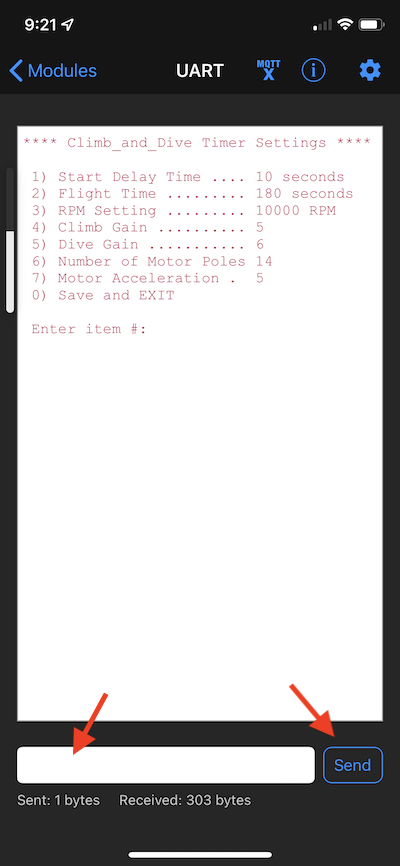
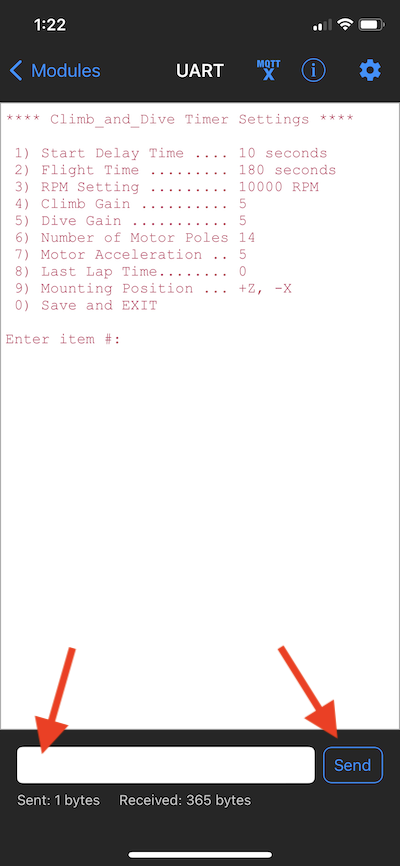
Update to v1.1

Changed region(s): [[0.0, 0.0, 1.0, 0.873], [0.48, 0.9042, 0.54, 0.9353]]

diff --git a/docs/Programming/Timer Mounting Position.md b/docs/Programming/Timer Mounting Position.md
@@ -1,0 +1,52 @@
+---
+title: Timer Mounting Position
+layout: default
+parent: Operation
+nav_order: 3
+---
+
+## **Climb_and_Dive** ##
+{: .text-blue-100}
+{: .text-right}
+
+## Programming the Timer Mounting Position ##
+
+### Description ###
+
+The following instructions apply if you would like to install the timer on your airplane in an orientation other than the **default** mounting position described in the [assembly instructions](../Assembly#installation).  If you are using the default mounting position, the timer is already programmed with the default settings and is ready to use.
+
+The programming procedure for this feature is slightly different than the other items in the Bluetooth programming menu so therefore warrant more detailed instructions.  This procedure only needs to be done once after mounting the timer in the airplane, or if you change the timer orientation for any reason.
+
+**Overview**<br>
+First, a brief explanation of why this is necessary.  The accelerometer used by the timer actually has (3) separate accelerometers inside.  Each measurement axis is orientated 90 degrees to each other.  In addition, each measurement axis has a positive and negative direction.
+
+![](assets/images/Accelerometer Axes.png)
+
+It is imperative that the timer uses the correct measurement axis and direction for the active output calculations.  If the timer is installed in a different orientation with respect to the wings and fuselage of the airplane, the timer will need to be reprogrammed to tell it which measurement axes to use.
+
+The timer can be installed in any position.  Although, it still must be installed so that the sides and edges of the timer are aligned with the major axes of the airplane.  The timer *cannot* be mounted askew, tilted or at an angle to the wing and fuselage axes.
+
+**Programming**<br>
+Programming the timer to tell it which accelerometer axes to use is a two step process.  
+
+{: .highlight }
+Safety first: You are about to connect the battery to power-up the airplane.  Although you will only enter the Bluetooth programming mode, for maximum safety remove the propeller or get someone to securely hold the airplane at all times.
+
+With the timer installed in the airplane, power it up and enter the Bluetooth programming mode.  From the menu selections choose the Mounting Position option.
+
+![](assets/images/Bluefruit 7.png)
+
+**Step 1**<br>
+Follow the onscreen prompt and hold the airplane with the outboard wing pointing down (leadouts pointing up to the sky).  When you are ready, enter the letter "W" to tell the timer this is the accelerometer axis you want to use for the wing axis.  There is also an option to enter "X" if you want to exit the procedure and return to the main menu without making and changes.
+
+![](assets/images/Bluefruit 8.png)
+
+**Step 2**<br>
+Next, the prompt will ask you to rotate the airplane so that the fuselage is vertical with the nose pointed down and the rudder pointing up to the sky.  When you are ready, enter the letter "F" to tell the timer this is the accelerometer axis you want to use for the fuselage axis.  Again, there is also an option to enter "X" if you want to exit the procedure and return to the main menu without making any changes.
+
+![](assets/images/Bluefruit 9.png)
+
+**Results**<br>
+The menu will reappear showing the new accelerometer axes assigned to the airplanes wing and fuselage axes.  The **default orientation** of the timer uses the +Z axis assigned to the wing axis and the -X axis assigned to the fuselage axis.  All other mounting orientations will use a different combination of axes and signs.
+
+Be sure to **save** the new programming settings when you disconnect and exit the Bluetooth programming mode.

diff --git a/docs/Operation.md b/docs/Operation.md
@@ -30,11 +30,11 @@ When ready, touch and hold the pin (a long touch of a minimum of 3 seconds), the
 {: .highlight }
 Note: Any touch of the pin during the Start Delay mode will stop the countdown and return to the Standby mode (green).
 
-After the Start Delay the Flight mode will start (flashing red) and the motor RPM will slowly increase to the desired flight RPM at the programmed rate.  This will assist with a smooth take-off.
+After the Start Delay the Flight mode will start (flashing red) and the motor RPM will slowly increase to the desired flight RPM at the programmed rate.  This will assist with a smooth take-off.  In oder to allow for a smooth climb to cruising speed there is a 5 second delay before the active function of the timer becomes fully operational.
 
 {: .highlight }
 If you need to abort the flight: After the motor starts, **any touch of the pin will stop the motor** and jump to the Flight Complete mode (LED off).
 
-10 seconds before the Flight mode is complete the LED will quickly flash white to indicate the end of the flight.  The motor RPM will then increase for 3 seconds before stopping to aid in a smooth approach and landing.  Once the motor stops the program enters the Flight Complete mode (LED off).  The power must be reset in order to exit the Flight Complete mode.
+10 seconds before the Flight mode is complete the LED will quickly flash white to indicate the end of the flight.  The motor RPM will then increase for 3 seconds before stopping to aid in a smooth approach and landing.  There is also and option to add up to 10 seconds of normal flight RPM *after* the 3 second burst of high RPM to allow extra time to prepare for the landing.  Once the motor stops the program enters the Flight Complete mode (LED off).  The power must be reset in order to exit the Flight Complete mode.
 
 Disconnect the battery, replace it with a fully charged one and repeat the process for the next flight.

diff --git a/docs/Programming/Bluetooth Programming.md b/docs/Programming/Bluetooth Programming.md
@@ -36,17 +36,25 @@ The motor acceleration is an arbitrary multiplier with a value from 1 through 10
 **Number of Motor Poles**<br>
 Enter the number of magnetic poles used in your motor.  The timer needs this information in order to accurately calculate the RPM.  The number of magnetic poles  can be found in you motor documentation or by counting the number of magnet segments glued around the inside of the rotating part of the motor.
 
+**Last Lap Time**<br>
+Enter the amount of time from 0 to 10 seconds that you would like the motor to run at normal speed *after* the short burst of high RPM at the end of the flight.  If you prefer to use the short burst of high RPM to set-up for a better landing glide, set this time to 0.  If you prefer the use the short burst of high RPM as a warning signal to indicate the end of the flight, enter a length of time that allows you prepare for landing.
+
+**Mounting Position**<br>
+This programming option is only required if you want to install the timer in an orientation other than the default position shown in the assembly instructions.  For further information and details of the programming procedure, please refer to the page titled [Timer Mounting Position](Timer Mounting Position).
+
 The table below summarizes the programmable settings available and their default values:
 
 | Programmable Setting | Allowable Range | Default Setting |
 | --- | :---: | :---: |
 | Start Delay Time | 0 to 60 | 10 Seconds |
 | Flight Time | 1 to 360 | 180 Seconds |
-| Motor RPM | 5000 to 15000 | 10000 |
+| Motor RPM | 4000 to 15000 | 10000 |
 | Climb Gain | 0 to 10 | 5 |
 | Dive Gain | 0 to 10 | 5 |
 | Motor Acceleration | 1 to 10 | 5 |
 | Number of Motor Poles | 2 to 24 | 14 |
+| Last Lap Time | 0 to 10 | 0 |
+| Mounting Position| - | +Z, -X |
 
 <br>
 

diff --git a/docs/Assembly.md b/docs/Assembly.md
@@ -78,11 +78,17 @@ Connect the backpack motor pins to any two of the three motor wires.  It doesn't
 
 ![](assets/images/Bullet Connectors.jpeg)
 
+{: .highlight }
+Note: The main reason a JST connector is suggested is only because it's a very common 2-pin connector available from just about any hobby shop.  It may not be the ideal connector if connected and disconnected frequently.  A more robust connector would be a 2-pin "Dupont" connector.  Unfortunately, these are a little harder to find but are available from online retailers.
+
 ## Installation ##
 
 The flat bottom of the timer **must** be installed on a vertical part of the aircraft with the ESC/Motor connection pins pointing forward and the component side of the timer facing the pilot.  Although not super-critical, the long side of the timer should be installed so that it is horizontal when the aircraft is flying straight and level.  Calibration of the accelerometer is not required.
 
-A couple of pieces of adhesive backed hook and loop fastener (aka Velcro) makes quick work of mounting the timer in position.
+{: .highlight }
+The description above is the **default** mounting orientation.  If you would like to install the timer in your airplane in a different orientation please refer to the page titled [Timer Mounting Position](Programming/Timer Mounting Position).
+
+A couple of pieces of adhesive backed hook and loop fastener (aka Velcro) makes quick work of holding the timer in position.
 
 Please keep in mind that the accelerometer is a very sensitive device and excessive vibration can make it difficult to get accurate readings.  If possible locate the timer away from any source of vibration.  It's a good idea to always balance new propellers before use.
 

diff --git a/docs/FAQ's.md b/docs/FAQ's.md
@@ -16,6 +16,8 @@ nav_order: 7
 
 **Why don't I get the  one second throttle 'blip' when I start the timer?**  If your ESC has a procedure for throttle calibration, try that, it may help.  See [ESC Information](Power System Information#ESC Information).
 
+**The motor takes to long to get to cruising speed after take-off**  Do not hold the running airplane for an extended period before releasing for take-off.  There is a 5 second delay after the motor reaches the programmed flight RPM until the active function of the timer becomes fully operational.  This is to prevent the active function from impeding the airplane climb-out and acceleration to cruising speed.
+
 **Is a Bluetooth wireless connection allowed in competition?**  The Bluetooth radio is turned on *only* while the timer is in the programming mode.  Therefore the Bluetooth connection cannot be construed as to provide any control of the aircraft during flight.  Bluetooth is 2.4GHz spread spectrum technology.  The timer uses low energy Bluetooth transmitted through a very small onboard antenna which limits it's usefull range to about 30 feet, or 10 meters, maximum.
 
 **Is Bluefruit Connect the only app that will work with the timer?**  No, there are plenty of other free Bluetooth apps that support wireless UART communication.  Bluefruit Connect was suggested for its simplicity and ease of use.

diff --git a/index.md b/index.md
@@ -36,13 +36,15 @@ Programming the microcontroller is as easy as dragging and dropping a few files 
 
 - Programmable soft start.  The RPM increases over a programmable time period for smoother take-offs.
 
-- A 3 second boost in RPM at the conclusion of a flight to improve the landing glide.
+- A 3 second boost in RPM at the conclusion of a flight to improve the landing glide or as a warning to indicate the impending end of the flight.
 
 - An onboard accelerometer provides a programmable active boost in power during a climb as well as a decrease in power in a dive.  Accelerometer calibration is not required.
 
 - Constant RPM throughout the flight is maintained by sensing the motor voltage using a PID control feedback loop.  No need for a tachometer.  The RPM number you program is the RPM you get at the propeller.
 
 - Works with lower cost ESC’s.  The governing function takes place in the timer so expensive governing ESC’s are not required.
+
+- Following a simple programming procedure the timer can be mounted in any orientation in the airplane.
 
 - Power to the motor is cut off quickly and automatically if the propeller inadvertently strikes the ground.  No more burned out motors or ESC’s from a crash or nose-over on takeoff.
 

diff --git a/docs/Software.md b/docs/Software.md
@@ -14,8 +14,11 @@ If you purchased a **Climb_and_Dive kit** complete with both boards, then the Xi
 
 If you sourced your Seeed Studio Xiao nRF52840 from another provider you will have to install CircuitPython first and then the program code and libraries.  Dont' worry, it's easy.
 
+{: .highlight}
+Be sure to check here from time to time to make sure you are using the most up to date version of the program code.  **Latest Version: v1.1**
+
 <span class="fs-6">
-[Click Here to download the latest program code .zip file](https://github.com/CircuitFlyer/Climb_and_Dive/archive/v1.0.0.zip){: .btn .btn-blue }
+[Click Here to download the latest program code .zip file](https://github.com/CircuitFlyer/Climb_and_Dive/archive/v1.1.0.zip){: .btn .btn-blue }
 </span>
 
 Unzip the download and have a look inside.  You should find a CircuitPython .uf2 file, code.py and a lib(rary) folder.

diff --git a/docs/Programming/Safety Features.md b/docs/Programming/Safety Features.md
@@ -2,7 +2,7 @@
 title: Safety Features
 layout: default
 parent: Operation
-nav_order: 3
+nav_order: 4
 ---
 
 ## **Climb_and_Dive** ##
